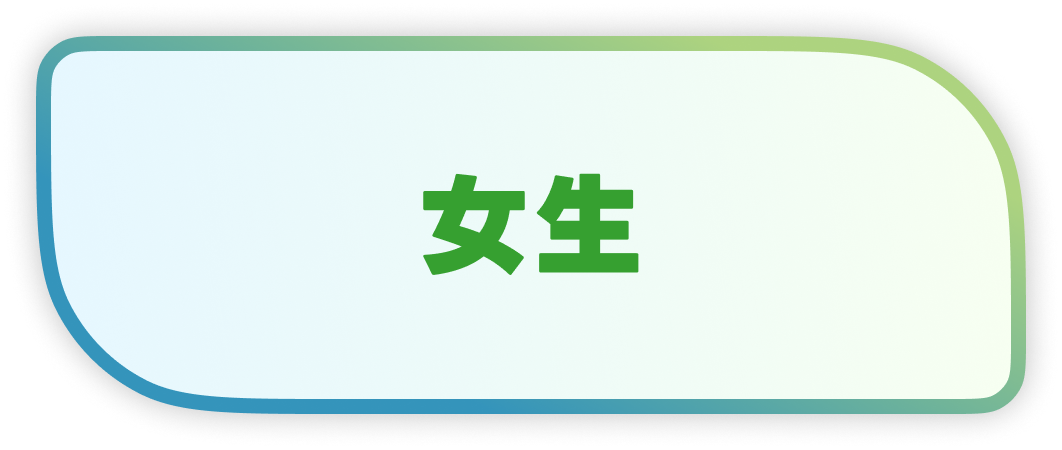
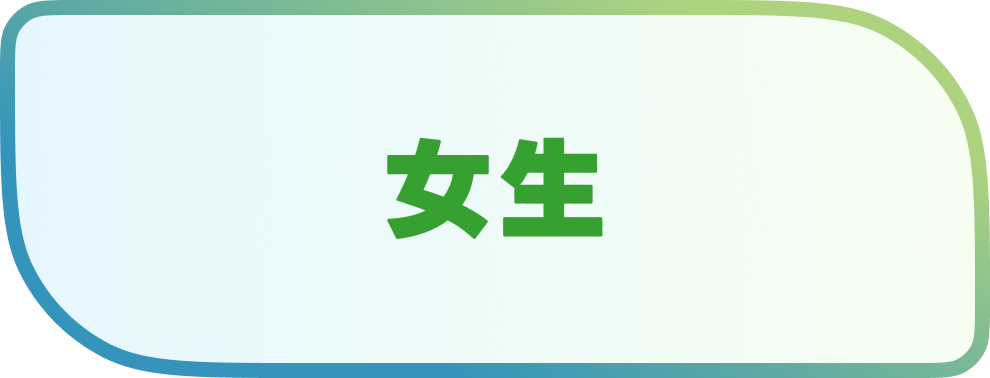
Update faceswap button assets

Changed region(s): [[0.0, 0.0, 1.0, 1.0], [0.3939, 0.3492, 0.6061, 0.6402]]

diff --git a/resources/js/faceswap/components/FaceSwapCameraCapture.vue b/resources/js/faceswap/components/FaceSwapCameraCapture.vue
@@ -60,7 +60,7 @@
           playsinline
         />
         <div class="absolute inset-x-0 bottom-[46px] z-10 text-center text-[28px] font-bold text-[#1f1f1f]">
-          正在生成圖像...
+  
         </div>
       </div>
 
@@ -120,12 +120,17 @@
       </button>
       <button
         v-if="cameraState === 'preview'"
-        class="absolute left-[561px] top-[1310px] z-50 flex h-[118px] w-[429px] items-center justify-center rounded-[36px] border border-[#7bcaa6] bg-[linear-gradient(105deg,rgba(245,255,245,0.94),rgba(194,243,255,0.86),rgba(255,255,255,0.9))] text-[42px] font-black text-[#36A030] shadow-[0_12px_28px_rgba(0,0,0,0.18)] backdrop-blur-md [touch-action:manipulation]"
+        class="absolute left-[561px] top-[1310px] z-50 h-[118px] w-[429px] border-0 bg-transparent p-0 [touch-action:manipulation]"
         type="button"
         @click="startCountdown"
         @touchend.prevent="startCountdown"
       >
-        下一步
+        <img
+          :src="imageUrls.enterprise.buttons.confirmPhotoNext"
+          alt="下一步"
+          class="h-full w-full select-none object-contain"
+          draggable="false"
+        />
       </button>
       <button
         v-if="cameraState === 'captured'"
@@ -138,12 +143,17 @@
       </button>
       <button
         v-if="cameraState === 'captured'"
-        class="absolute left-[561px] top-[1294px] z-50 flex h-[118px] w-[429px] items-center justify-center rounded-[36px] border border-[#7bcaa6] bg-[linear-gradient(105deg,rgba(245,255,245,0.94),rgba(194,243,255,0.86),rgba(255,255,255,0.9))] text-[42px] font-black text-[#36A030] shadow-[0_12px_28px_rgba(0,0,0,0.18)] backdrop-blur-md [touch-action:manipulation]"
+        class="absolute left-[561px] top-[1294px] z-50 h-[118px] w-[429px] border-0 bg-transparent p-0 [touch-action:manipulation]"
         type="button"
         @click="nextStep"
         @touchend.prevent="nextStep"
       >
-        下一步
+        <img
+          :src="imageUrls.enterprise.buttons.confirmPhotoNext"
+          alt="下一步"
+          class="h-full w-full select-none object-contain"
+          draggable="false"
+        />
       </button>
     </template>
 

diff --git a/resources/js/config/imageUrls.js b/resources/js/config/imageUrls.js
@@ -12,7 +12,11 @@ import esgMaleButtonDefaultImg from '../../../public/images/esg-faceswap/btn_男
 import esgMaleButtonSelectedImg from '../../../public/images/esg-faceswap/btn_男生換臉_selected.png'
 import esgFemaleButtonDefaultImg from '../../../public/images/esg-faceswap/btn_女生換臉_default.png'
 import esgFemaleButtonSelectedImg from '../../../public/images/esg-faceswap/btn_女生換臉_selected.png'
-import esgQrModalButtonImg from '../../../public/images/esg-faceswap/Frame1000004222.png'
+import esgSelectionNextDisabledImg from '../../../public/images/esg-faceswap/btn_「選擇性別頁」下一步 disabled.png'
+import esgPrimaryNextButtonImg from '../../../public/images/esg-faceswap/btn_「選擇性別、拍攝照片頁」下一步 Primary.png'
+import esgConfirmPhotoNextButtonImg from '../../../public/images/esg-faceswap/btn_「確認照片頁」下一步.png'
+import esgDownloadButtonImg from '../../../public/images/esg-faceswap/btn_下載圖片.png'
+import esgCloseButtonImg from '../../../public/images/esg-faceswap/btn_關閉 .png'
 import esgLoadingVideo from '../../../public/images/esg-faceswap/loading.mp4'
 
 export const imageUrls = {
@@ -27,7 +31,13 @@ export const imageUrls = {
     backIcon: esgBackIconImg,
     cameraFrame: esgCameraFrameImg,
     loadingVideo: esgLoadingVideo,
-    qrModalButton: esgQrModalButtonImg,
+    buttons: {
+      selectionNextDisabled: esgSelectionNextDisabledImg,
+      primaryNext: esgPrimaryNextButtonImg,
+      confirmPhotoNext: esgConfirmPhotoNextButtonImg,
+      download: esgDownloadButtonImg,
+      close: esgCloseButtonImg,
+    },
     gender: {
       female: {
         photo: esgGenderFemaleImg,

diff --git a/resources/js/faceswap/components/FaceSwapResult.vue b/resources/js/faceswap/components/FaceSwapResult.vue
@@ -22,11 +22,16 @@
       </button>
       <button
         type="button"
-        class="flex h-[118px] items-center justify-center rounded-[36px] border border-[#7bcaa6] bg-[linear-gradient(105deg,rgba(245,255,245,0.94),rgba(194,243,255,0.86),rgba(255,255,255,0.9))] text-[42px] font-black text-[#36A030] shadow-[0_12px_28px_rgba(0,0,0,0.18)] backdrop-blur-md [touch-action:manipulation]"
+        class="h-[118px] border-0 bg-transparent p-0 [touch-action:manipulation]"
         @click="showQrCode"
         @touchend.prevent="showQrCode"
       >
-        下載圖片
+        <img
+          :src="imageUrls.enterprise.buttons.download"
+          alt="下載圖片"
+          class="h-full w-full select-none object-contain"
+          draggable="false"
+        />
       </button>
     </div>
 
@@ -42,6 +47,7 @@
 import { ref } from 'vue'
 import EnterpriseInnerLayout from './EnterpriseInnerLayout.vue'
 import QRCodeModal from './QRCodeModal.vue'
+import { imageUrls } from '@/config/imageUrls'
 
 const props = defineProps({
   generatedImageUrl: {

diff --git a/resources/js/faceswap/components/EnterpriseGenderSelection.vue b/resources/js/faceswap/components/EnterpriseGenderSelection.vue
@@ -100,13 +100,18 @@
     </button>
 
     <button
-      class="absolute left-[98px] top-[1647px] z-30 flex h-[118px] w-[884px] items-center justify-center rounded-[36px] border border-[#bde5ce] bg-[linear-gradient(105deg,rgba(245,255,245,0.94),rgba(194,243,255,0.86),rgba(255,255,255,0.9))] text-[42px] font-black text-[#36A030] shadow-[0_12px_28px_rgba(0,0,0,0.18)] backdrop-blur-md disabled:opacity-55 [touch-action:manipulation]"
+      class="absolute left-[98px] top-[1647px] z-30 h-[118px] w-[884px] border-0 bg-transparent p-0 [touch-action:manipulation]"
       type="button"
       :disabled="!selectedGender"
       @click="nextStep"
       @touchend.prevent="nextStep"
     >
-      下一步
+      <img
+        :src="selectedGender ? imageUrls.enterprise.buttons.primaryNext : imageUrls.enterprise.buttons.selectionNextDisabled"
+        :alt="selectedGender ? '下一步' : '下一步（未啟用）'"
+        class="h-full w-full select-none object-contain"
+        draggable="false"
+      />
     </button>
   </div>
 </template>

diff --git a/resources/js/faceswap/components/QRCodeModal.vue b/resources/js/faceswap/components/QRCodeModal.vue
@@ -20,17 +20,16 @@
 
       <button
         type="button"
-        class="relative mt-[46px] flex h-[97px] w-[480px] items-center justify-center border-0 bg-transparent p-0 text-[36px] font-black text-[#36A030] [touch-action:manipulation]"
+        class="mt-[46px] h-[97px] w-[480px] border-0 bg-transparent p-0 [touch-action:manipulation]"
         @click="close"
         @touchend.prevent="close"
       >
         <img
-          :src="imageUrls.enterprise.qrModalButton"
-          alt=""
-          class="absolute inset-0 h-full w-full select-none object-fill"
+          :src="imageUrls.enterprise.buttons.close"
+          alt="關閉"
+          class="h-full w-full select-none object-contain"
           draggable="false"
         />
-        <span class="relative z-10">關閉</span>
       </button>
     </div>
   </div>
